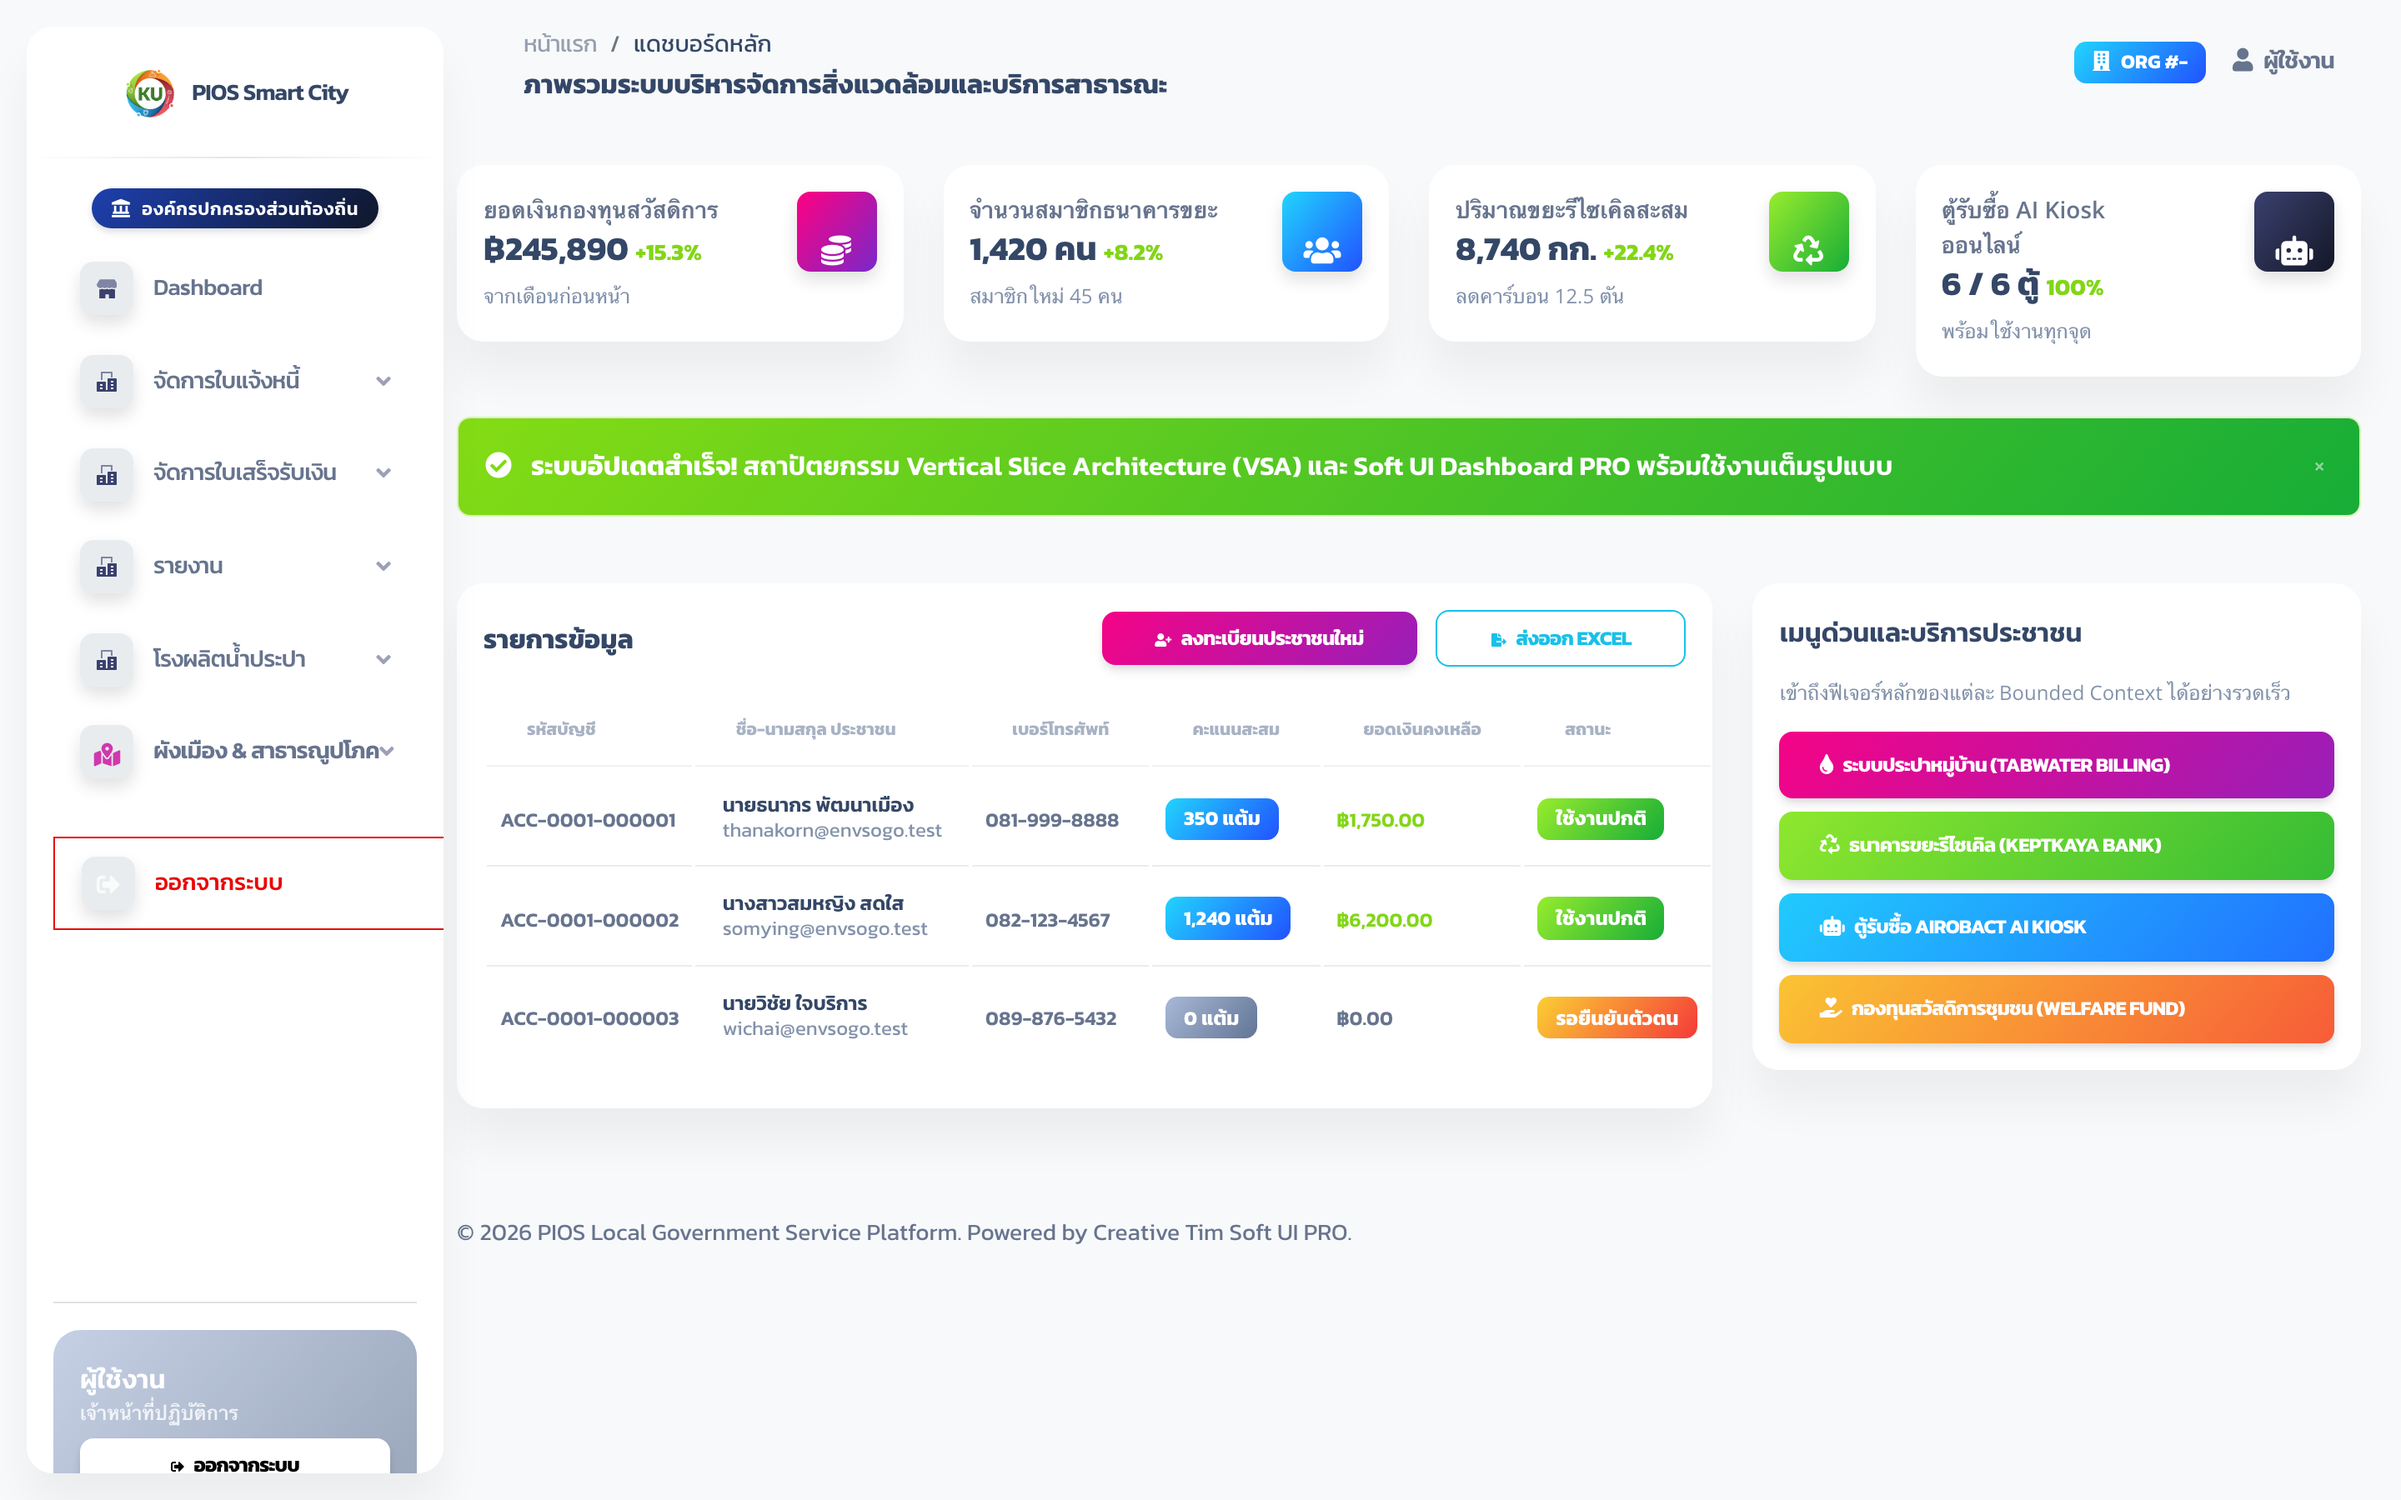
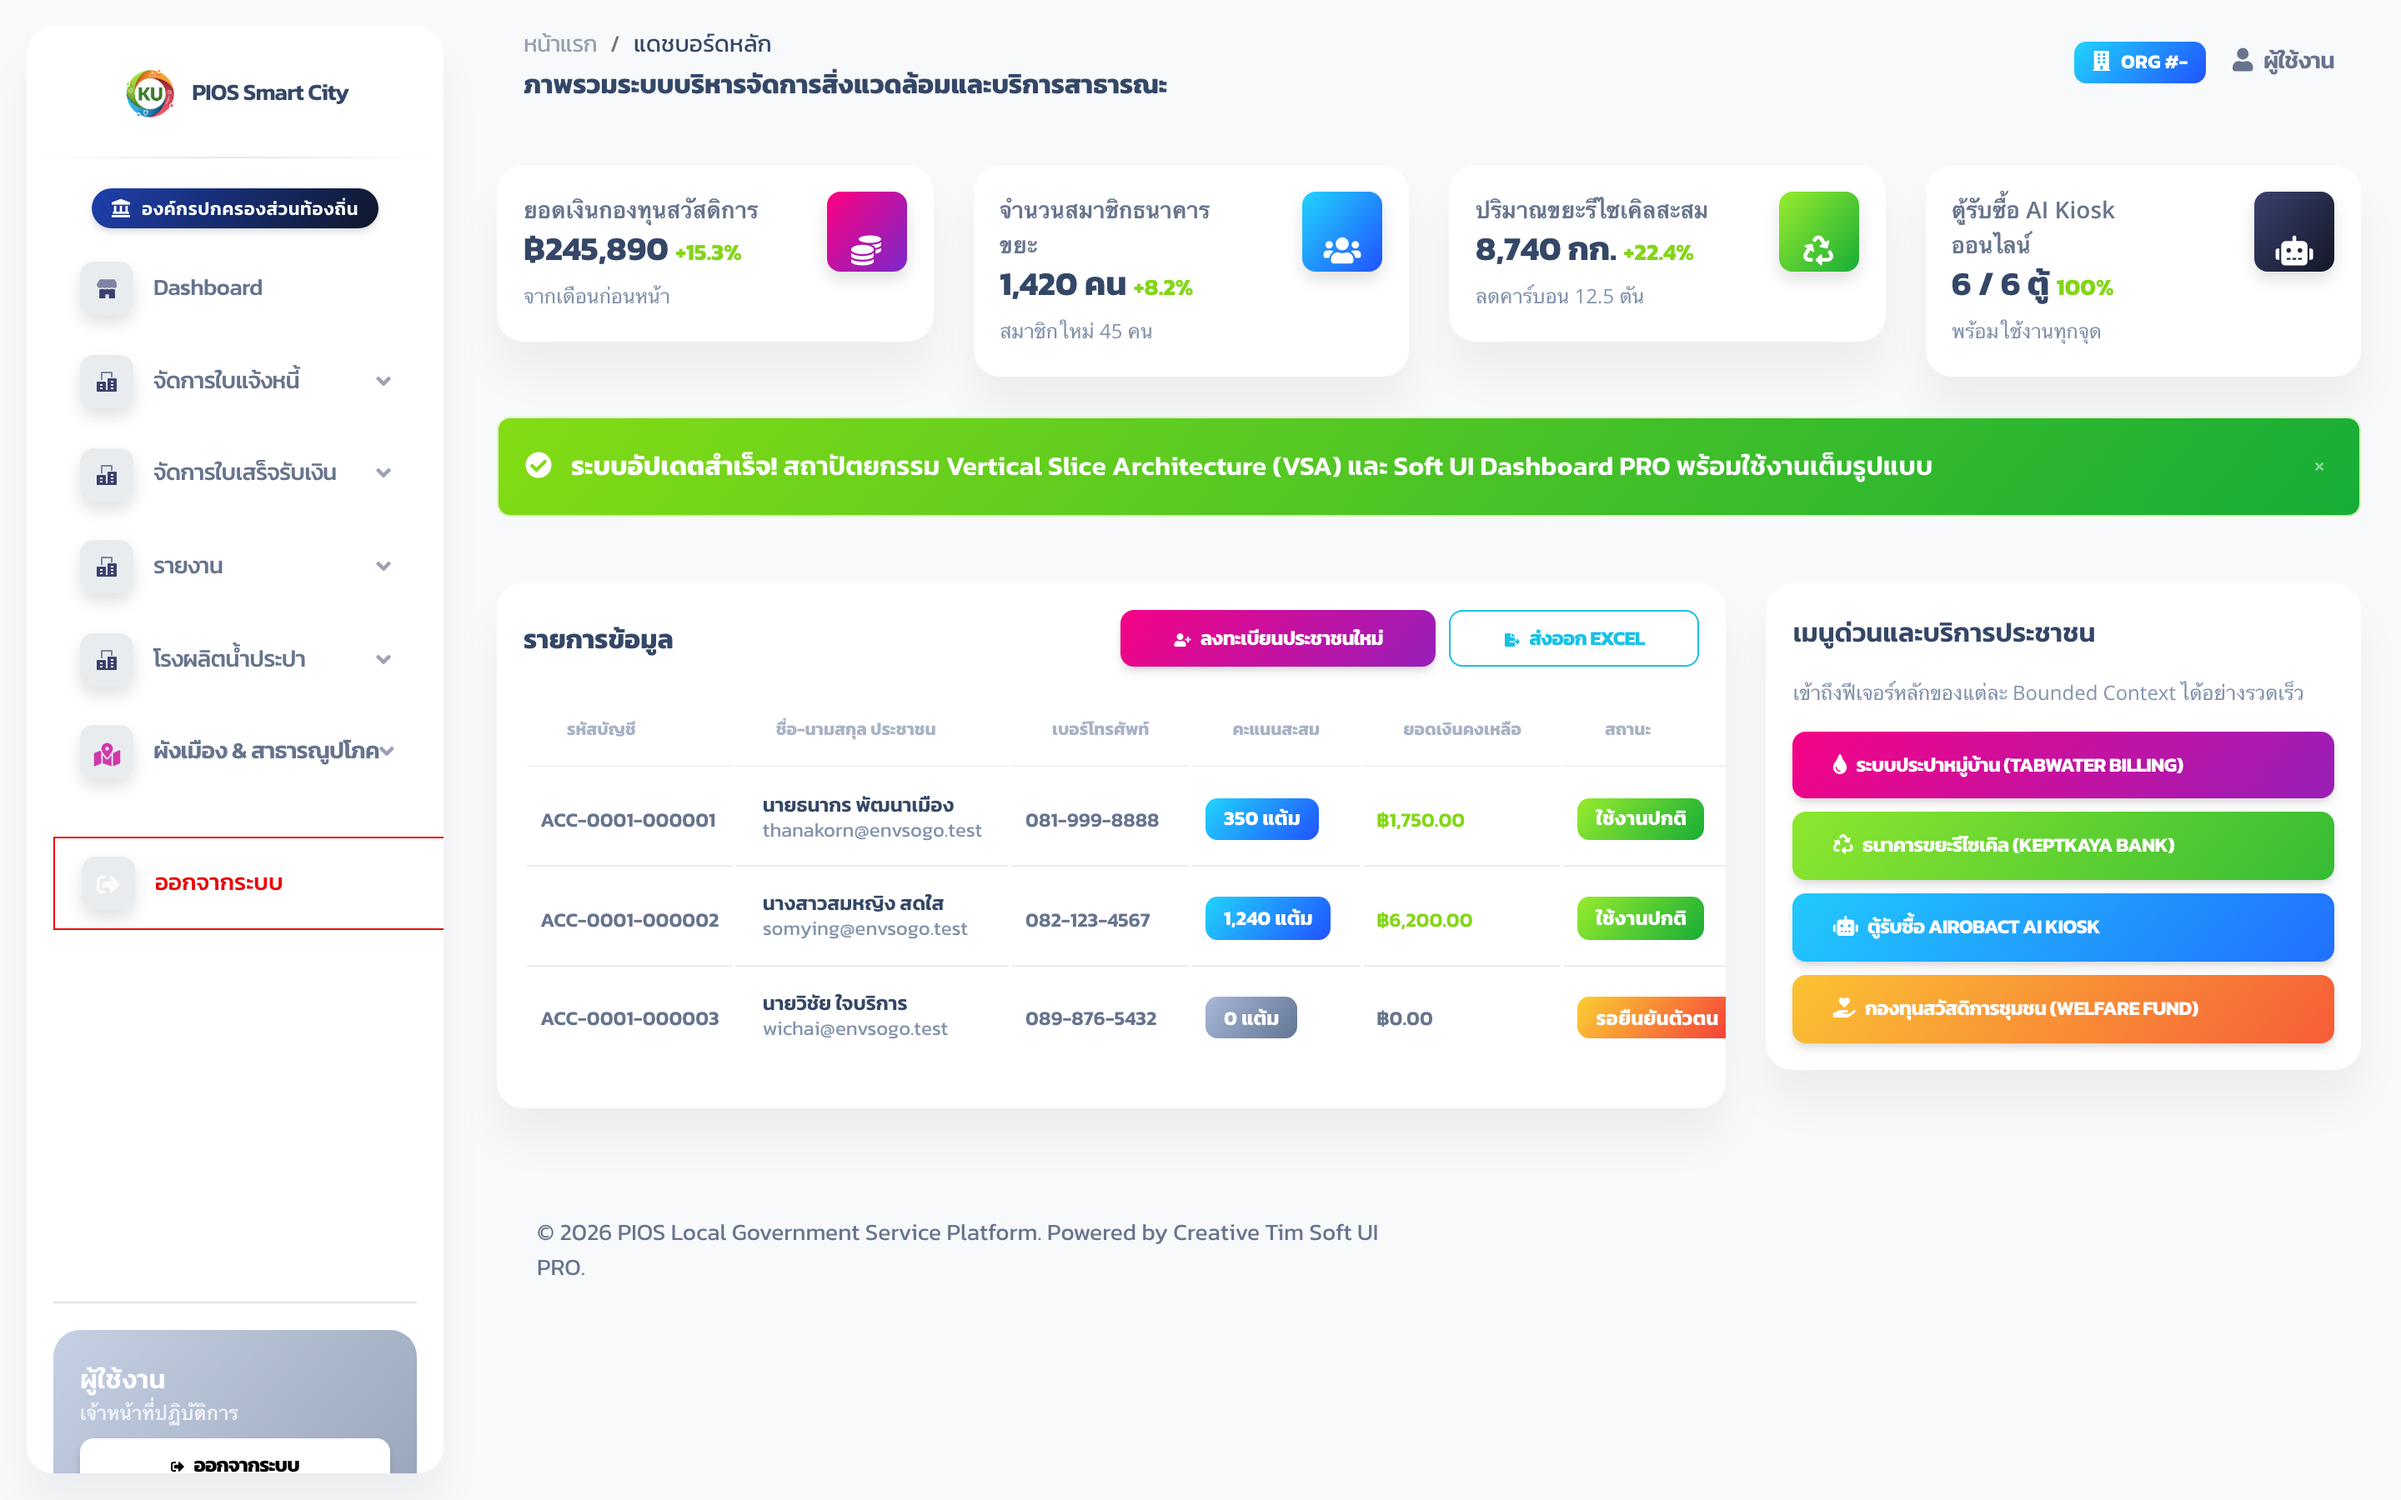
fix(ui): improve mobile responsive padding and datatable header actions layout

diff --git a/scripts/capture-e2e-screenshots.js b/scripts/capture-e2e-screenshots.js
@@ -3,29 +3,40 @@ import fs from 'fs';
 import path from 'path';
 
 async function captureScreenshots() {
+  const baseUrl = process.env.APP_URL || 'http://localhost:8080';
   const outputDir = path.resolve('docs/screenshots');
-  if (!fs.existsSync(outputDir)) {
-    fs.mkdirSync(outputDir, { recursive: true });
+  const artifactDir = '/Users/poppy.geidtiphong/.gemini/antigravity/brain/6f957369-490b-4756-8ca7-b54d15f397a8/screenshots';
+
+  for (const dir of [outputDir, artifactDir]) {
+    if (!fs.existsSync(dir)) {
+      fs.mkdirSync(dir, { recursive: true });
+    }
   }
+
+  const saveBoth = (sourcePath, filename) => {
+    fs.copyFileSync(sourcePath, path.join(artifactDir, filename));
+  };
 
   const browser = await chromium.launch();
 
   // 1. Desktop Soft UI PRO Dashboard (1440x900)
-  console.log('Capturing Desktop Soft UI PRO Dashboard...');
+  console.log(`Capturing Desktop Soft UI PRO Dashboard from ${baseUrl}...`);
   const desktopContext = await browser.newContext({
     viewport: { width: 1440, height: 900 },
     deviceScaleFactor: 2,
   });
   const desktopPage = await desktopContext.newPage();
-  await desktopPage.goto('http://127.0.0.1:8088/preview/soft-ui-pro', { waitUntil: 'networkidle' });
+  await desktopPage.goto(`${baseUrl}/preview/soft-ui-pro`, { waitUntil: 'networkidle' });
+  const desktopFile = path.join(outputDir, '01-soft-ui-pro-desktop-dashboard.png');
   await desktopPage.screenshot({
-    path: path.join(outputDir, '01-soft-ui-pro-desktop-dashboard.png'),
+    path: desktopFile,
     fullPage: true,
   });
+  saveBoth(desktopFile, '01-soft-ui-pro-desktop-dashboard.png');
   await desktopContext.close();
 
   // 2. Mobile Responsive View (390x844 - iPhone 14)
-  console.log('Capturing Mobile Responsive View...');
+  console.log(`Capturing Mobile Responsive View from ${baseUrl}...`);
   const mobileContext = await browser.newContext({
     viewport: { width: 390, height: 844 },
     isMobile: true,
@@ -33,44 +44,50 @@ async function captureScreenshots() {
     deviceScaleFactor: 2,
   });
   const mobilePage = await mobileContext.newPage();
-  await mobilePage.goto('http://127.0.0.1:8088/preview/soft-ui-pro', { waitUntil: 'networkidle' });
+  await mobilePage.goto(`${baseUrl}/preview/soft-ui-pro`, { waitUntil: 'networkidle' });
+  const mobileFile = path.join(outputDir, '02-soft-ui-pro-mobile-view.png');
   await mobilePage.screenshot({
-    path: path.join(outputDir, '02-soft-ui-pro-mobile-view.png'),
+    path: mobileFile,
     fullPage: true,
   });
+  saveBoth(mobileFile, '02-soft-ui-pro-mobile-view.png');
   await mobileContext.close();
 
   // 3. Login Screen (1440x900)
-  console.log('Capturing Login Screen...');
+  console.log(`Capturing Login Screen from ${baseUrl}...`);
   const loginContext = await browser.newContext({
     viewport: { width: 1440, height: 900 },
     deviceScaleFactor: 2,
   });
   const loginPage = await loginContext.newPage();
-  await loginPage.goto('http://127.0.0.1:8088/login', { waitUntil: 'networkidle' });
+  await loginPage.goto(`${baseUrl}/login`, { waitUntil: 'networkidle' });
+  const loginFile = path.join(outputDir, '03-login-screen.png');
   await loginPage.screenshot({
-    path: path.join(outputDir, '03-login-screen.png'),
+    path: loginFile,
     fullPage: false,
   });
+  saveBoth(loginFile, '03-login-screen.png');
   await loginContext.close();
 
   // 4. Kiosk Touch Screen (1080x1920)
-  console.log('Capturing Kiosk Screen...');
+  console.log(`Capturing Kiosk Screen from ${baseUrl}...`);
   const kioskContext = await browser.newContext({
     viewport: { width: 1080, height: 1920 },
     hasTouch: true,
     deviceScaleFactor: 1.5,
   });
   const kioskPage = await kioskContext.newPage();
-  await kioskPage.goto('http://127.0.0.1:8088/kiosk_login', { waitUntil: 'networkidle' });
+  await kioskPage.goto(`${baseUrl}/kiosk_login`, { waitUntil: 'networkidle' });
+  const kioskFile = path.join(outputDir, '04-kiosk-login-screen.png');
   await kioskPage.screenshot({
-    path: path.join(outputDir, '04-kiosk-login-screen.png'),
+    path: kioskFile,
     fullPage: false,
   });
+  saveBoth(kioskFile, '04-kiosk-login-screen.png');
   await kioskContext.close();
 
   await browser.close();
-  console.log('All screenshots captured successfully in docs/screenshots/');
+  console.log('All screenshots captured and copied to both docs/screenshots/ and artifacts directory successfully.');
 }
 
 captureScreenshots().catch(err => {

diff --git a/public/soft-ui/assets/css/soft-ui-dashboard.css b/public/soft-ui/assets/css/soft-ui-dashboard.css
@@ -22354,7 +22354,7 @@ html {
 .container-xl,
 .container-xxl {
   padding-right: calc(var(--bs-gutter-x) * 1);
-  padding-left: calc(var(--bs-gutter-x) * );
+  padding-left: calc(var(--bs-gutter-x) * 1);
 }
 
 .navbar {

diff --git a/resources/views/layouts/soft-ui-pro.blade.php b/resources/views/layouts/soft-ui-pro.blade.php
@@ -52,6 +52,18 @@
             font-size: 11px;
             font-weight: 600;
         }
+        @media (max-width: 767.98px) {
+            .main-content > .container-fluid {
+                padding-left: 1rem !important;
+                padding-right: 1rem !important;
+            }
+        }
+        @media (min-width: 768px) {
+            .main-content > .container-fluid {
+                padding-left: 1.5rem !important;
+                padding-right: 1.5rem !important;
+            }
+        }
     </style>
     @stack('styles')
 </head>
@@ -98,7 +110,7 @@
     <!-- Main Content Area -->
     <main class="main-content position-relative max-height-vh-100 h-100 border-radius-lg">
         <!-- Top Navbar -->
-        <nav class="navbar navbar-main navbar-expand-lg px-0 mx-4 shadow-none border-radius-xl" id="navbarBlur" navbar-scroll="true">
+        <nav class="navbar navbar-main navbar-expand-lg px-0 mx-3 mx-md-4 shadow-none border-radius-xl" id="navbarBlur" navbar-scroll="true">
             <div class="container-fluid py-1 px-3">
                 <nav aria-label="breadcrumb">
                     <ol class="breadcrumb bg-transparent mb-0 pb-0 pt-1 px-0 me-sm-6 me-5">
@@ -136,7 +148,7 @@
         </nav>
 
         <!-- Body Container -->
-        <div class="container-fluid py-4">
+        <div class="container-fluid py-4 px-3 px-md-4">
             @include('layouts.partials.flash')
 
             @yield('content')

diff --git a/resources/views/components/soft-ui/datatable.blade.php b/resources/views/components/soft-ui/datatable.blade.php
@@ -1,14 +1,19 @@
 @props([
     'id' => 'datatable-' . uniqid(),
     'headers' => [],
+    'title' => 'รายการข้อมูล',
     'actions' => null,
 ])
 
 <div class="card shadow-blur">
-    @if ($actions)
-        <div class="card-header pb-0 p-3 d-flex justify-content-between align-items-center">
-            <h6 class="mb-0 font-weight-bolder">รายการข้อมูล</h6>
-            <div>{{ $actions }}</div>
+    @if ($title || $actions)
+        <div class="card-header pb-0 p-3 d-flex flex-column flex-sm-row justify-content-between align-items-start align-items-sm-center gap-2">
+            @if ($title)
+                <h6 class="mb-0 font-weight-bolder text-nowrap">{{ $title }}</h6>
+            @endif
+            @if ($actions)
+                <div class="d-flex flex-column flex-sm-row gap-2 w-100 w-sm-auto justify-content-start justify-content-sm-end">{{ $actions }}</div>
+            @endif
         </div>
     @endif
     <div class="card-body px-0 pt-0 pb-2">

diff --git a/resources/views/preview/soft-ui-pro.blade.php b/resources/views/preview/soft-ui-pro.blade.php
@@ -70,10 +70,10 @@
         @endphp
         <x-soft-ui.datatable id="citizenSummaryTable" :headers="$headers">
             <x-slot:actions>
-                <x-soft-ui.button color="primary" size="sm" icon="fas fa-user-plus">
+                <x-soft-ui.button color="primary" size="sm" icon="fas fa-user-plus" class="w-100 w-sm-auto">
                     ลงทะเบียนประชาชนใหม่
                 </x-soft-ui.button>
-                <x-soft-ui.button color="info" size="sm" :outline="true" icon="fas fa-file-export" class="ms-2">
+                <x-soft-ui.button color="info" size="sm" :outline="true" icon="fas fa-file-export" class="w-100 w-sm-auto">
                     ส่งออก Excel
                 </x-soft-ui.button>
             </x-slot:actions>
